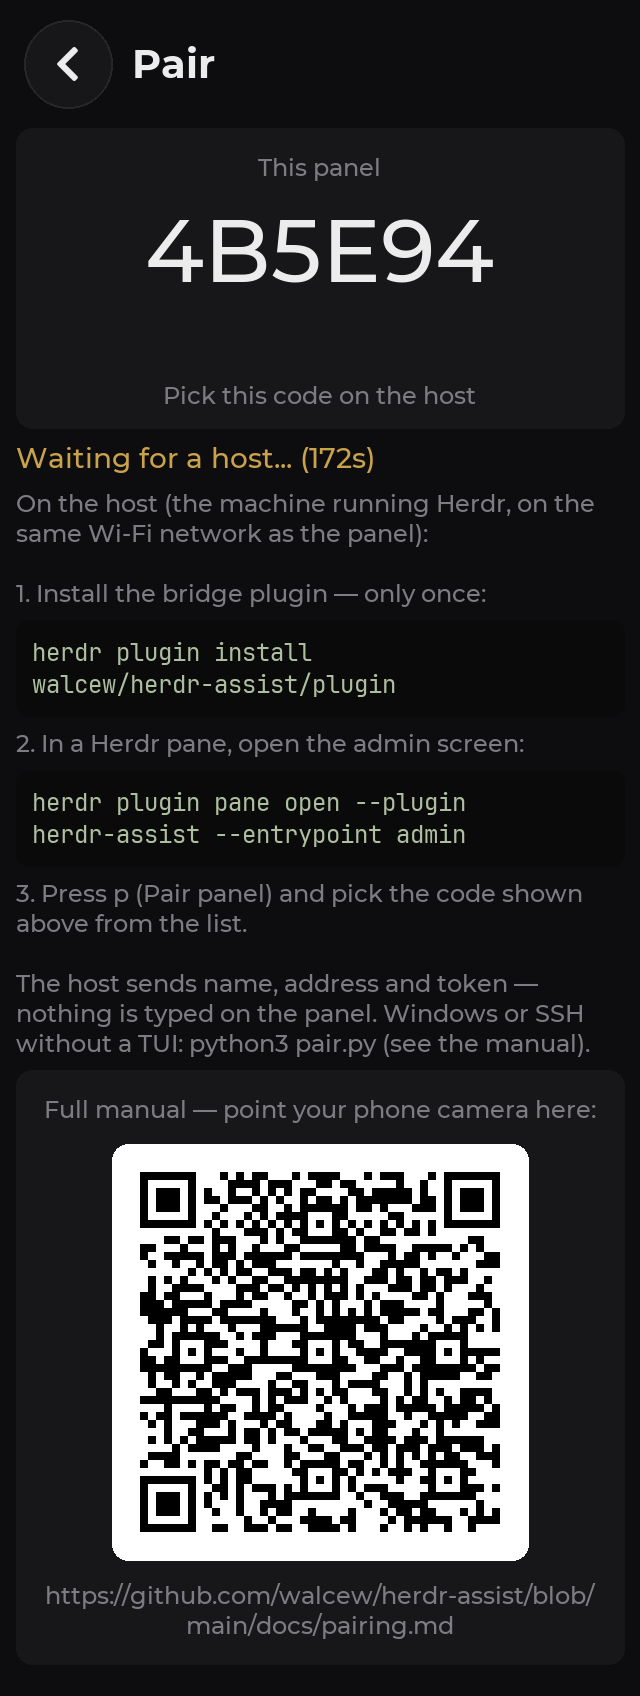
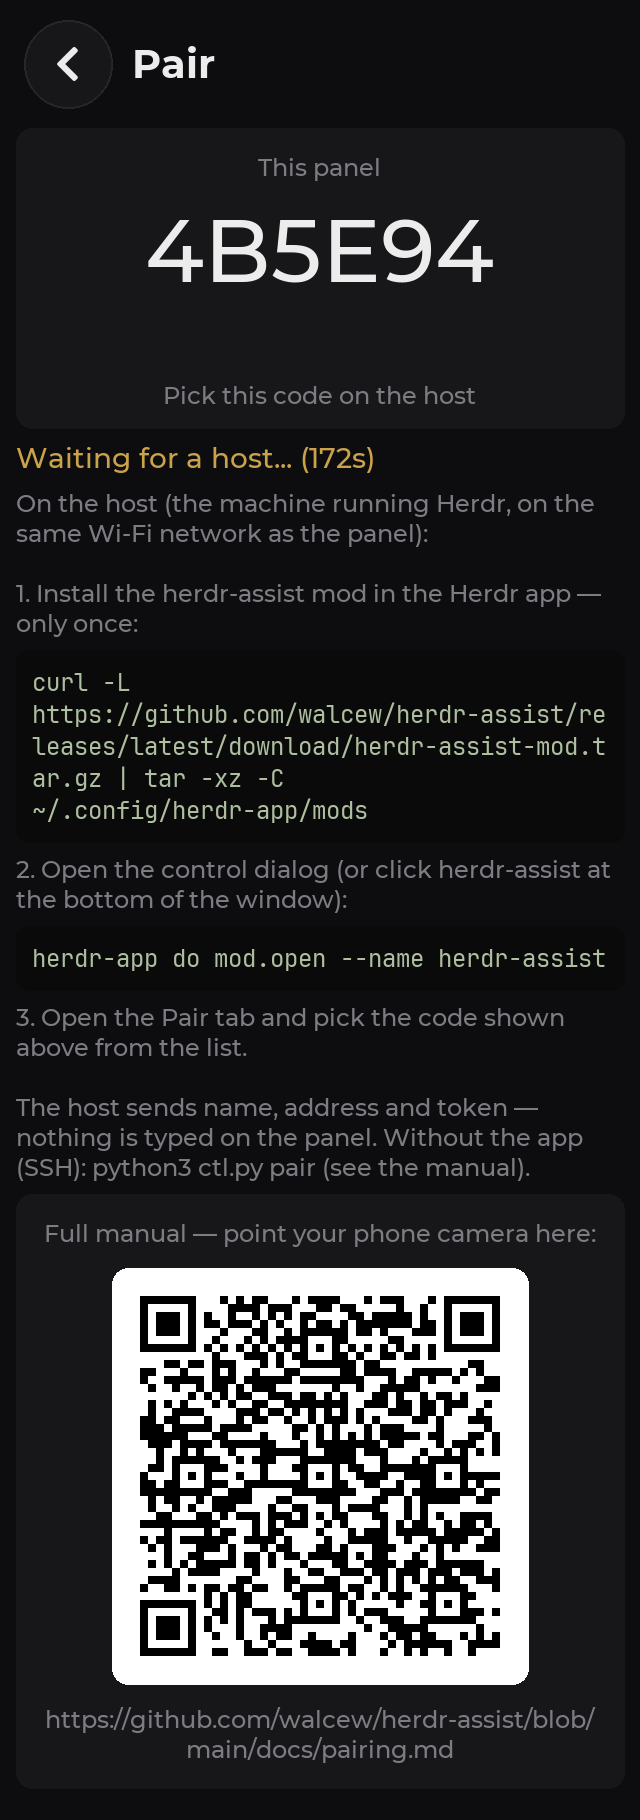
fix: Atualiza as instruções de instalação no firmware
- Tela Parear do painel: instala o mod pelo release e abre o dialog pelo herdr-app
- Passo do pareamento aponta a aba Parear e o ctl.py pair, no lugar do admin e do pair.py
- Rodapé do Cardputer e tela do e-paper citam o dialog do herdr-assist
- Regenera os mockups do manual de pareamento

diff --git a/src/i18n.h b/src/i18n.h
@@ -128,21 +128,21 @@ typedef enum {
     X(STARTING,        "Starting...",                 "Iniciando...")                        \
     X(PAIR_STEPS_INSTALL, "On the host (the machine running Herdr, on the same "             \
                        "Wi-Fi network as the panel):\n\n"                                    \
-                       "1. Install the bridge plugin — only once:",                          \
+                       "1. Install the herdr-assist mod in the Herdr app — only once:",                          \
                        "No host (a máquina com o Herdr, na mesma rede Wi-Fi "                \
                        "do painel):\n\n"                                                     \
-                       "1. Instale o plugin da ponte — uma vez só:")                         \
-    X(PAIR_STEPS_ADMIN, "2. In a Herdr pane, open the admin screen:",                        \
-                       "2. Num pane do Herdr, abra a tela de administração:")                 \
-    X(PAIR_STEPS_PICK, "3. Press p (Pair panel) and pick the code shown above "              \
+                       "1. Instale o mod herdr-assist no app Herdr — uma vez só:")                         \
+    X(PAIR_STEPS_ADMIN, "2. Open the control dialog (or click herdr-assist at the bottom of the window):",                        \
+                       "2. Abra o dialog de controle (ou clique em herdr-assist no rodapé da janela):")                 \
+    X(PAIR_STEPS_PICK, "3. Open the Pair tab and pick the code shown above "              \
                        "from the list.\n\n"                                                  \
                        "The host sends name, address and token — nothing is "                \
-                       "typed on the panel. Windows or SSH without a TUI: "                  \
-                       "python3 pair.py (see the manual).",                                  \
-                       "3. Tecle p (Parear painel) e escolha na lista o código "             \
+                       "typed on the panel. Without the app (SSH): "                  \
+                       "python3 ctl.py pair (see the manual).",                                  \
+                       "3. Na aba Parear, escolha na lista o código "             \
                        "mostrado acima.\n\n"                                                 \
                        "O host envia nome, endereço e token — nada é digitado "              \
-                       "no painel. Windows ou SSH sem TUI: python3 pair.py "                 \
+                       "no painel. Sem o app (SSH): python3 ctl.py pair "                 \
                        "(veja o manual).")                                                   \
     X(PAIR_NO_WIFI,    "No Wi-Fi: connect to a network first (Settings " LV_SYMBOL_RIGHT     \
                        " Wi-Fi network).",                                                   \

diff --git a/scripts/gen_docs_mockups.py b/scripts/gen_docs_mockups.py
@@ -36,8 +36,8 @@ TERM_BG, TERM_TEXT = "#0a0a0b", "#aebfa0"
 FA_WIFI, FA_PLUS, FA_RIGHT, FA_SAVE, FA_LEFT = "", "", "", "", ""
 FA_HOME, FA_LIST, FA_DASH, FA_COG = "", "", "", ""
 
-CMD_INSTALL = "herdr plugin install walcew/herdr-assist/plugin"
-CMD_ADMIN = "herdr plugin pane open --plugin herdr-assist --entrypoint admin"
+CMD_INSTALL = "curl -L https://github.com/walcew/herdr-assist/releases/latest/download/herdr-assist-mod.tar.gz | tar -xz -C ~/.config/herdr-app/mods"
+CMD_ADMIN = "herdr-app do mod.open --name herdr-assist"
 
 # textos por idioma, espelhando src/i18n.h (pareamento) e a tela principal
 T = {
@@ -54,13 +54,13 @@ T = {
         "waiting": "Waiting for a host... (172s)",
         "p1": "On the host (the machine running Herdr, on the same "
               "Wi-Fi network as the panel):\n\n"
-              "1. Install the bridge plugin — only once:",
-        "p2": "2. In a Herdr pane, open the admin screen:",
-        "p3": "3. Press p (Pair panel) and pick the code shown above "
+              "1. Install the herdr-assist mod in the Herdr app — only once:",
+        "p2": "2. Open the control dialog (or click herdr-assist at the bottom of the window):",
+        "p3": "3. Open the Pair tab and pick the code shown above "
               "from the list.\n\n"
               "The host sends name, address and token — nothing is "
-              "typed on the panel. Windows or SSH without a TUI: "
-              "python3 pair.py (see the manual).",
+              "typed on the panel. Without the app (SSH): "
+              "python3 ctl.py pair (see the manual).",
         "manual": "Full manual — point your phone camera here:",
         "url": "https://github.com/walcew/herdr-assist/blob/main/docs/pairing.md",
         "suffix": "",
@@ -79,12 +79,12 @@ T = {
         "waiting": "Aguardando um host... (172s)",
         "p1": "No host (a máquina com o Herdr, na mesma rede Wi-Fi "
               "do painel):\n\n"
-              "1. Instale o plugin da ponte — uma vez só:",
-        "p2": "2. Num pane do Herdr, abra a tela de administração:",
-        "p3": "3. Tecle p (Parear painel) e escolha na lista o código "
+              "1. Instale o mod herdr-assist no app Herdr — uma vez só:",
+        "p2": "2. Abra o dialog de controle (ou clique em herdr-assist no rodapé da janela):",
+        "p3": "3. Na aba Parear, escolha na lista o código "
               "mostrado acima.\n\n"
               "O host envia nome, endereço e token — nada é digitado "
-              "no painel. Windows ou SSH sem TUI: python3 pair.py "
+              "no painel. Sem o app (SSH): python3 ctl.py pair "
               "(veja o manual).",
         "manual": "Manual completo — aponte a câmera do celular:",
         "url": "https://github.com/walcew/herdr-assist/blob/main/docs/pairing.pt-BR.md",

diff --git a/src/herdr_ui_settings.c b/src/herdr_ui_settings.c
@@ -614,9 +614,9 @@ static void show_pair(void)
 {
     /* Os comandos não são tradução — iguais nos dois idiomas. */
     static const char CMD_INSTALL[] =
-        "herdr plugin install walcew/herdr-assist/plugin";
+        "curl -L https://github.com/walcew/herdr-assist/releases/latest/download/herdr-assist-mod.tar.gz | tar -xz -C ~/.config/herdr-app/mods";
     static const char CMD_ADMIN[] =
-        "herdr plugin pane open --plugin herdr-assist --entrypoint admin";
+        "herdr-app do mod.open --name herdr-assist";
 
     s_view = VIEW_PAIR;
     lv_obj_add_flag(s_dock, LV_OBJ_FLAG_HIDDEN);

diff --git a/epaper154/src/pager_ui.c b/epaper154/src/pager_ui.c
@@ -421,7 +421,7 @@ static void draw_pairing(void)
     if (!s_pair_wifi) {
         draw_wrapped(6, 44, "Waiting for Wi-Fi... hold PWR+BOOT 3s to change the network.", 31, 4, 12);
     } else {
-        draw_wrapped(6, 38, "On the Herdr machine: open the herdr-assist admin screen, press p and pick:", 31, 4, 11);
+        draw_wrapped(6, 38, "On the Herdr machine: open the herdr-assist dialog, Pair tab, and pick:", 31, 4, 11);
         draw_text_center(82, s_pair_id, 15, 3);
         if (s_pair_secs > 0) {
             snprintf(line, sizeof(line), "window closes in %ds", s_pair_secs);

diff --git a/cardputer/src/ui.cpp b/cardputer/src/ui.cpp
@@ -1087,7 +1087,7 @@ static void draw_pair(void)
     d.setTextColor(C_MUTED, C_BG);
     d.drawString(line, SCR_W / 2, BODY_Y + 72);
     d.setTextDatum(top_left);
-    draw_footer("no host: herdr plugin ... admin, tecla p");
+    draw_footer("no host: herdr-assist > aba Parear");
 }
 
 /* ------------------------------------------------------------- Wi-Fi ----- */

diff --git a/epaper154/README.md b/epaper154/README.md
@@ -95,8 +95,8 @@ pio device monitor
    rede. Nada é digitado no device.
 2. **Pareamento.** Conectado e sem host, o pager abre sozinho a janela de
    pareamento (3 minutos) e mostra um código de 6 caracteres. No computador do
-   Herdr, abra a tela de administração do herdr-assist, aperte `p` e escolha o
-   código — exatamente como no painel (veja o [manual de pareamento](../docs/pairing.md)).
+   Herdr, abra o dialog do herdr-assist (clique no indicador do rodapé), vá à aba
+   **Parear** e escolha o código — exatamente como no painel (veja o [manual de pareamento](../docs/pairing.md)).
    O host entrega nome, endereço, porta e token; o pager grava e reinicia
    conectado.
 
